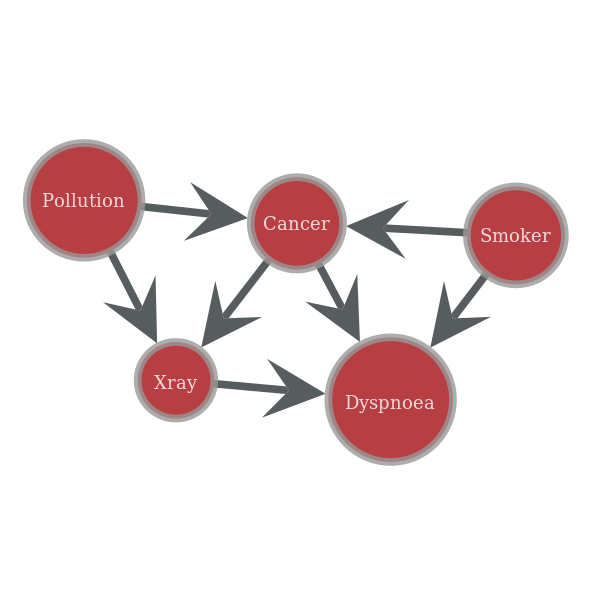
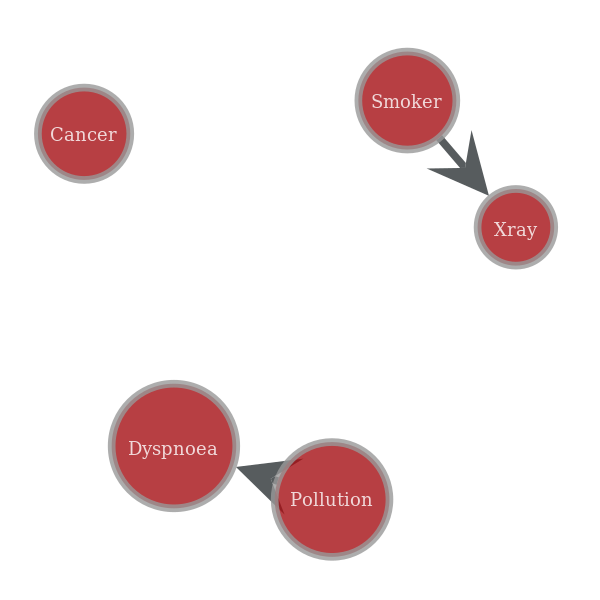
ga is applied for structure learning

Changed region(s): [[0.03, 0.06, 0.96, 0.96], [0.3, 0.39, 0.33, 0.42]]

diff --git a/project/structure_learning_using_ga.py b/project/structure_learning_using_ga.py
@@ -10,11 +10,14 @@ from pgmpy.factors.discrete import TabularCPD
 from pgmpy.sampling import BayesianModelSampling
 from  pgmpy.readwrite.BIF import BIFReader
 from pgmpy.estimators import MaximumLikelihoodEstimator, BayesianEstimator
-from pgmpy.estimators import K2Score, BicScore, BdeuScore
+from pgmpy.estimators import K2Score, BicScore, BdeuScore, HillClimbSearch
 import numpy as np
 import pandas as pd
 import matplotlib.pyplot as plt
 from graph_tool.all import *
+from pgmpy.inference import VariableElimination
+from pgmpy.estimators import BayesianEstimator
+
 
 def generate_pop(size,strLen):
     pop = np.random.rand(size,strLen)
@@ -45,8 +48,9 @@ def selection(pop,popSize,var,scoreFunc):
     for i in range(popSize):
         model = get_structure_from_string(pop[i],var)
         score[i] = scoreFunc.score(model)
+    popScore = np.copy(score)
     avgScore = np.mean(score)
-    noOfsamples = 10;
+    noOfsamples = 5;
     indexs = np.zeros(noOfsamples,dtype=int);
     for i in range(noOfsamples):
         indexs[i] = np.argmax(score)
@@ -57,15 +61,30 @@ def selection(pop,popSize,var,scoreFunc):
     indexs = np.delete(indexs,i1);
     i2 = np.random.randint(low=0,high=noOfsamples-2)
     p2 = indexs[i2]
-    return p1,p2,avgScore
+    return p1,p2,avgScore,popScore
         
-def crossover(pop,p1,p2,pc,stringLen):
-    crossSite = np.random.randint(low=1,high=stringLen-2)
-    if np.random.rand() > pc:
-        temp = pop[p1,:]
-        pop[p1,crossSite:stringLen] = pop[p2,crossSite:stringLen]
-        pop[p2,crossSite:stringLen] = temp[crossSite:stringLen]
+def replace(pop,child1,child2,popScore):
+    i1 = np.argmin(popScore)
+    pop[i1] = child1
+    popScore[i1] = 100
+    i2 = np.argmin(popScore)
+    pop[i2] = child2
     return pop
+    
+def crossover(pop,p1,p2,pc,stringLen):
+    if np.random.rand() > pc:
+        crossSite = np.random.randint(low=1,high=stringLen-2)
+        temp = pop[p1,:]
+        child1 = np.zeros(stringLen)
+        child2 = np.zeros(stringLen)
+        child1[0:crossSite] = pop[p1,0:crossSite]
+        child1[crossSite:stringLen] = pop[p2,crossSite:stringLen]
+        child2[0:crossSite] = pop[p2,0:crossSite]
+        child2[crossSite:stringLen] = pop[p1,crossSite:stringLen]
+#        pop[p1,crossSite:stringLen] = pop[p2,crossSite:stringLen]
+#        pop[p2,crossSite:stringLen] = temp[crossSite:stringLen]
+        return child1, child2
+    return [],[]
 
 def mutation(pop,pm,popSize,strigLen):
     for i in range(popSize):
@@ -98,7 +117,8 @@ def plotGraph(string,var,fileName):
     graph_draw(g, 
                vertex_text=g.vertex_properties["name"], 
                vertex_font_size=18,
-               output=fileName)
+               output=fileName)#,
+               #output_size=(1300, 1300))
                
 def readGroundTruth(fileName):
     fileName = 'ground_truth_' + fileName
@@ -110,6 +130,47 @@ def readGroundTruth(fileName):
     return struc
     
 
+
+def getFactorVal(var, values, evidence):
+    values = values[evidence[var[0]]]
+    del(var[0])
+    if len(var)==0:
+        return values
+    else:
+        return getFactorVal(var,values,evidence)
+        
+def getjointProbability(parameters, evidence, var):
+    #factors = inference.factors
+    jointProb = 1;
+    for i in range(len(parameters)):
+        #print(var[i])
+        fact = parameters[i]
+        #print(fact)
+        variables = list(fact.variables)
+        values = list(fact.values)
+        factVal = getFactorVal(variables, values, evidence)
+        jointProb *= factVal
+        #print(factVal)
+    return jointProb
+    
+def getLoglikelihood(string, var, dataSet):
+    dataInDict = dataSet.to_dict('index')
+    model = get_structure_from_string(string,var)
+    estimator = BayesianEstimator(model, dataSet)
+    parameters = estimator.get_parameters()
+    n = len(dataInDict)
+    total = 0
+    for i in range(n):
+        evidence = dataInDict[i]        
+        jp = getjointProbability(parameters, evidence,var)
+        jp = -np.math.log10(jp)
+        total += jp
+    #total = -np.math.log10(total/n)
+
+    #print('jp:',total)
+    return total
+    
+
 if __name__ == '__main__':
     networkName = 'cancer'
     bnNetworkFileName = networkName + '.bif'
@@ -118,7 +179,8 @@ if __name__ == '__main__':
     var = bn.get_variables()
     bnModel = bn.get_model()
     inference = BayesianModelSampling(bnModel)
-    dataSet = inference.forward_sample(size=5000, return_type='dataframe')
+    sampleSize = 3000
+    dataSet = inference.forward_sample(size=sampleSize, return_type='dataframe')
     
     model = BayesianModel()
     model.add_nodes_from(var)
@@ -136,7 +198,7 @@ if __name__ == '__main__':
     k2 = K2Score(dataSet)
     bic = BicScore(dataSet)
     bdeu = BdeuScore(dataSet)
-    
+    #k2=bic
 #    print(k2.score(bnModel))
 #    print(k2.score(model))
 #    
@@ -147,10 +209,10 @@ if __name__ == '__main__':
 #    print(bdeu.score(model))
     
     noOfvar = len(var)
-    popSize = 100;
-    noOfgeneration = 10
+    popSize = 10
+    noOfgeneration = 100
     pm = 0.01
-    pc = 0.5
+    pc = 0.9
     stringLen = int(noOfvar*(noOfvar-1)/2)
     
     pop = generate_pop(popSize,stringLen)
@@ -161,17 +223,53 @@ if __name__ == '__main__':
     #print(k2.score(model))
     #crossover(pop,1,2,0.6,stringLen)
     scores = np.zeros(noOfgeneration)
+    bestchildll = np.zeros(noOfgeneration)
     for i in range(noOfgeneration):
-        p1,p2,avgScore = selection(pop,popSize,var,k2)
+        p1,p2,avgScore,popScore = selection(pop,popSize,var,k2)
+        bestchi = pop[np.argmax(popScore)]
+        bestchildll[i] = getLoglikelihood(list(bestchi), var, dataSet)
         scores[i] = avgScore
-        pop = crossover(pop,p1,p2,pc,stringLen)
+        child1,child2 = crossover(pop,p1,p2,pc,stringLen)
+        if (len(child1) != 0) and (len(child2) != 0):
+            pop = replace(pop,child1,child2,popScore)
         pop = mutation(pop,pm,popSize,stringLen)
         print("generationNo.: ",i)
     #print(p1,p2,avgScore)
     plt.plot(scores)
     plt.show()
+    plt.plot(bestchildll)   
+    plt.show()
+    
     plotGraph(trueStructure,var,"trueStructure.png")
     
     bStruc,bScore = getBestStructure(pop,popSize,var,k2)
     plotGraph(bStruc,var,"foundBestStructure.png")
-    print(bScore)
+    print('log*:',getLoglikelihood(list(bStruc), var, dataSet)) 
+    print('logo:',getLoglikelihood(trueStructure, var, dataSet))     
+    print('k2*:', bScore)
+    print('k2o:',k2.score(bnModel))
+       
+    
+    
+    #est = HillClimbSearch(dataSet, scoring_method=k2)
+    #best_model = est.estimate()
+    #print(best_model.edges())
+    
+    #dataInDict = dataSet.to_dict('index')
+    
+    #estimator = BayesianEstimator(bnModel, dataSet)
+    
+    #inference = VariableElimination(bnModel)
+    #evidence = dataInDict[0]
+    #print(evidence)
+    #parameters = estimator.get_parameters()
+    #jp = getjointProbability(parameters, evidence,var)
+    
+    #print('jp:',jp)
+    #(equivalent_sample_size=sampleSize)
+
+    #q = inference.query(variables=var)
+
+#    var=['State','Roll','Roll speed','Pitch','pitch speed','Yaw','Yaw speed','Xacc','Yacc','Zacc']
+#    st =np.array([1,1,0,1,0,0,1,0,0,0,1,0,0,0,0,1,0,0,0,0,0,1,0,0,0,0,0,0,1,0,0,0,0,0,0,0,1,0,0,0,0,0,0,0,0])    
+#    plotGraph(st,var,"trueStructure.png")
